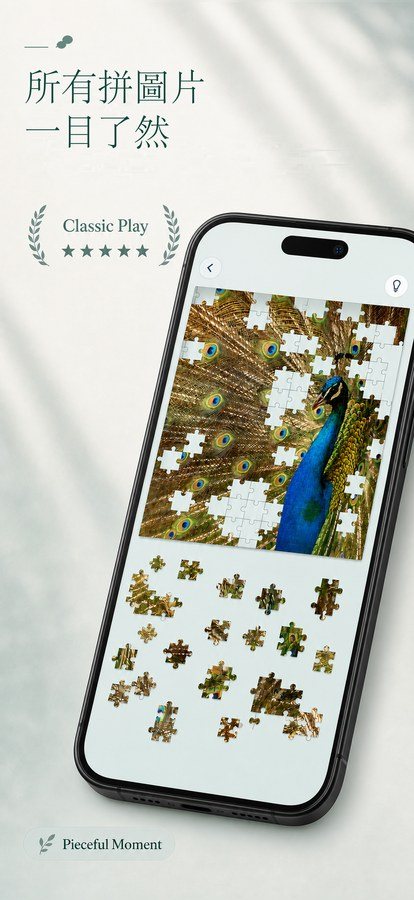
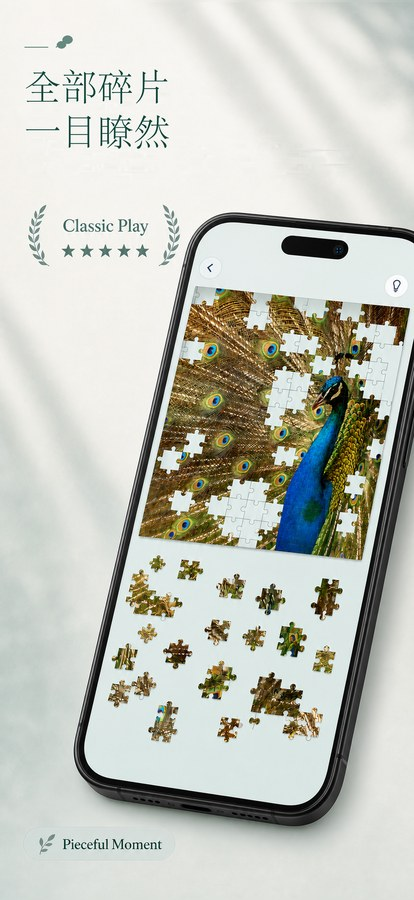
Refine Chinese piece wording

Changed region(s): [[0.058, 0.0622, 0.4348, 0.1867], [0.4348, 0.0622, 0.4928, 0.1244]]

diff --git a/index.html b/index.html
@@ -119,10 +119,10 @@
   </div>
   <div class="rail reveal d1">
     <div class="spacer"></div>
-    <div class="shot"><img data-localized-shot="01" src="assets/img/shots/v8/en/01.jpg?v=3" alt="Every piece in view"></div>
-    <div class="shot"><img data-localized-shot="02" src="assets/img/shots/v8/en/02.jpg?v=3" alt="Build outside the board"></div>
-    <div class="shot"><img data-localized-shot="03" src="assets/img/shots/v8/en/03.jpg?v=3" alt="Move pieces together"></div>
-    <div class="shot"><img data-localized-shot="04" src="assets/img/shots/v8/en/04.jpg?v=3" alt="A finish worth sharing"></div>
+    <div class="shot"><img data-localized-shot="01" src="assets/img/shots/v8/en/01.jpg?v=4" alt="Every piece in view"></div>
+    <div class="shot"><img data-localized-shot="02" src="assets/img/shots/v8/en/02.jpg?v=4" alt="Build outside the board"></div>
+    <div class="shot"><img data-localized-shot="03" src="assets/img/shots/v8/en/03.jpg?v=4" alt="Move pieces together"></div>
+    <div class="shot"><img data-localized-shot="04" src="assets/img/shots/v8/en/04.jpg?v=4" alt="A finish worth sharing"></div>
     <div class="shot"><img data-localized-shot="05" src="assets/img/shots/v8/en/05.jpg?v=1" alt="A picture for every mood"></div>
     <div class="shot"><img data-localized-shot="06" src="assets/img/shots/v8/en/06.jpg?v=1" alt="Made for little pauses"></div>
     <div class="shot"><img data-localized-shot="07" src="assets/img/shots/v8/en/07.jpg?v=1" alt="Turn your photos into puzzles"></div>
@@ -211,6 +211,6 @@
   </div>
 </footer>
 
-<script src="assets/app.js?v=10"></script>
+<script src="assets/app.js?v=11"></script>
 </body>
 </html>

diff --git a/assets/app.js b/assets/app.js
@@ -93,7 +93,7 @@
       b.classList.toggle("on", b.dataset.lang === lang);
     });
     document.querySelectorAll("[data-localized-shot]").forEach(function (img) {
-      img.src = "assets/img/shots/v8/" + lang + "/" + img.dataset.localizedShot + ".jpg?v=3";
+      img.src = "assets/img/shots/v8/" + lang + "/" + img.dataset.localizedShot + ".jpg?v=4";
     });
     document.querySelectorAll("[data-localized-ipad-shot]").forEach(function (img) {
       img.src = "assets/img/shots/v113-ipad/" + lang + "/" + img.dataset.localizedIpadShot + ".jpg?v=1";

diff --git a/scripts/render_v113_store_assets.py b/scripts/render_v113_store_assets.py
@@ -92,12 +92,12 @@ TREATMENT_TITLES = {
         "Move Pieces Together",
     ),
     "zh": (
-        "所有拼图片一目了然",
+        "全部碎片，一目了然",
         "在拼图框外自由拼搭",
         "一次移动多块拼图",
     ),
     "zht": (
-        "所有拼圖片一目了然",
+        "全部碎片，一目瞭然",
         "在拼圖框外自由拼搭",
         "一次移動多塊拼圖",
     ),
@@ -115,12 +115,12 @@ TREATMENT_COPY = {
         {"title": ("Move Pieces", "Together"), "badge": "Place as one"},
     ),
     "zh": (
-        {"title": ("所有拼图片", "一目了然"), "badge": "经典玩法"},
+        {"title": ("全部碎片", "一目了然"), "badge": "经典玩法"},
         {"title": ("在拼图框外", "自由拼搭"), "group": "组合拼图片", "move": "整组移动"},
         {"title": ("成组移动", "拼图片"), "badge": "整组放下"},
     ),
     "zht": (
-        {"title": ("所有拼圖片", "一目了然"), "badge": "經典玩法"},
+        {"title": ("全部碎片", "一目瞭然"), "badge": "經典玩法"},
         {"title": ("在拼圖框外", "自由拼搭"), "group": "組合拼圖片", "move": "整組移動"},
         {"title": ("成組移動", "拼圖片"), "badge": "整組放下"},
     ),

diff --git a/scripts/test_website_brand.py b/scripts/test_website_brand.py
@@ -33,9 +33,9 @@ class WebsiteBrandTests(unittest.TestCase):
         index = (ROOT / "index.html").read_text()
         app_js = (ROOT / "assets" / "app.js").read_text()
         self.assertIn('data-localized-ipad-shot="06"', index)
-        self.assertIn('assets/app.js?v=10', index)
+        self.assertIn('assets/app.js?v=11', index)
         self.assertIn("assets/img/shots/v113-ipad/", app_js)
-        self.assertIn('.jpg?v=3', app_js)
+        self.assertIn('.jpg?v=4', app_js)
         for locale in ("en", "zh", "zht", "ja"):
             for number in ("01", "02", "03", "04"):
                 self.assertTrue((ROOT / f"assets/img/shots/v8/{locale}/{number}.jpg").is_file())

diff --git a/scripts/test_render_v113_store_assets.py b/scripts/test_render_v113_store_assets.py
@@ -141,6 +141,11 @@ class V113StoreAssetTests(unittest.TestCase):
                 self.assertEqual(image.size, (2064, 2752), locale)
 
 class RendererHelperTests(unittest.TestCase):
+    def test_chinese_page_one_uses_approved_piece_wording(self):
+        renderer = load_renderer()
+        self.assertEqual(renderer.TREATMENT_COPY["zh"][0]["title"], ("全部碎片", "一目了然"))
+        self.assertEqual(renderer.TREATMENT_COPY["zht"][0]["title"], ("全部碎片", "一目瞭然"))
+
     def test_localized_page_one_preserves_original_classic_play_badge(self):
         renderer = load_renderer()
         with tempfile.TemporaryDirectory() as tempdir:
